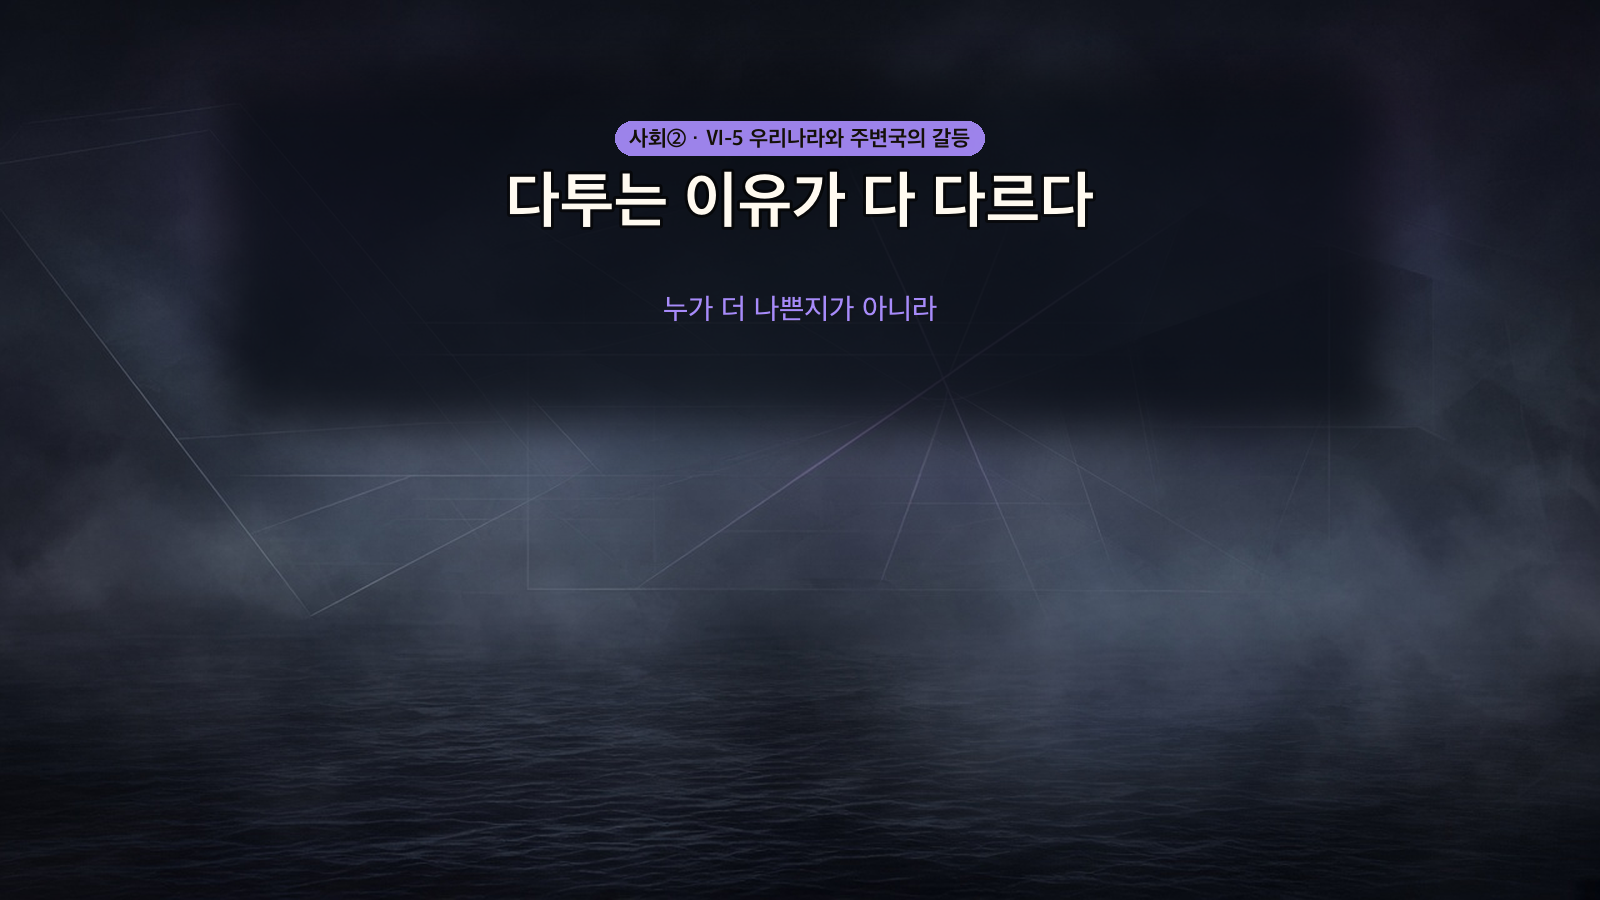
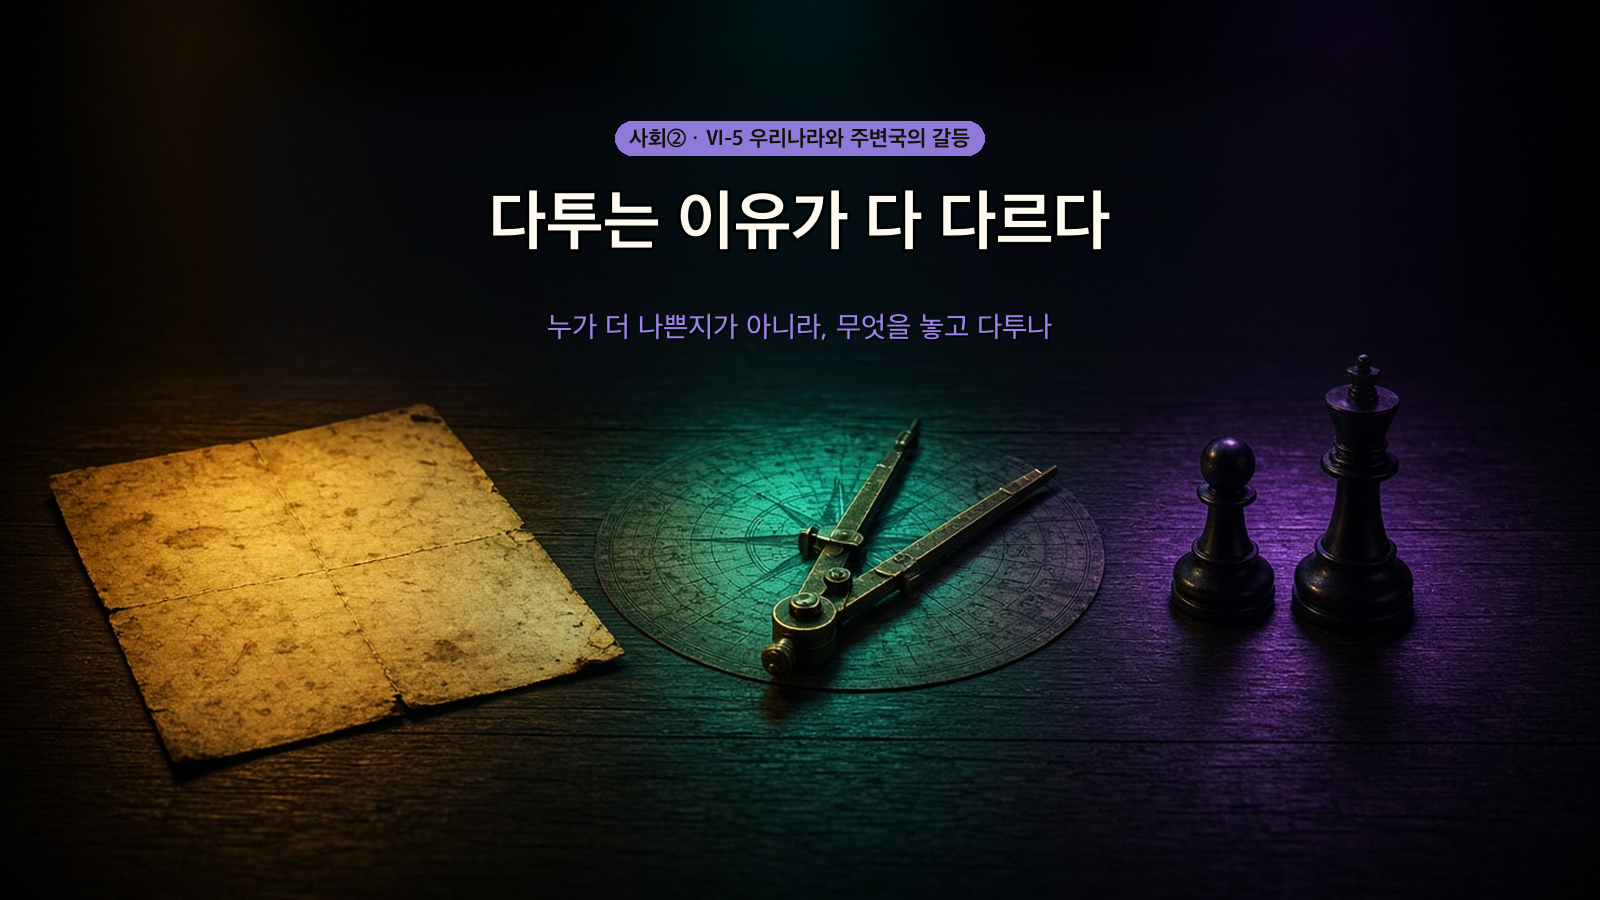
6-5 활동 카드를 그림 카드로 · 표지 둘 재제작 · 금테 noimg 렌더 픽스
천대현 "6-5, 6-6차시가 이전 차시들에 비해 뭔가 누락된 게 안보이니?"
→ 전수 대조: 섹션은 완전 균일, 갈린 곳은 한 줄이었다.
   활동 카드(그림) 6-1~6-4 = 1~2 / 6-5·6-6 = 0. md에 이미지 칸이
   파이프만 남고 비어 있었다 — 9/14 지시가 6-5·6-6에 안 따라왔다.

■ 6-5 — :::인물선택카드로 올렸다 (넷 중 셋)
군함도·광개토대왕릉비는 본문 사진 재사용(회수 지점), 집단 자위권은
자위대 관열식. 🔴 「중국 어선」은 비웠다 — 자유 라이선스 자료가
2018년 동해 공해 미국 해안경비대 나포 건뿐이라 «다른 사건»이다.
자료가 없다고 카드 내용을 바꾸지 않았다(5단계 회수 지점이다).

■ 6-6 — 올리려다 접었다. 넷 중 하나만 자료가 있다(반크는 이란
이스파한의 «반크 대성당»만 나온다). 한 장만 좋은 묶음은 안 넣는다.

■ 🔴 금테 카드에 사진 없는 카드를 섞으니 빈 금색 판이 드러났다
.pk-gold .pk-noimg 의 버튼 블록을 늘려 크림이 끝까지 내려오게 했다.
버튼은 flex:0 0 auto 로 고정(세 칸이 길게 늘어나는 2차 사고 차단).
선택자를 좁혀 회귀 0 — 이 조합을 가진 발행본이 6-5 하나뿐임을 먼저 실측.

■ 표지 둘 (make-cover.sh + cover_overlay.py)
6-5 = 세 물건이 놓인 테이블(옛 문서·해도와 컴퍼스·체스) — 옛 표지는
피사체가 없고 부제가 끊겨 있었다. 세 물건이 오늘의 세 갈래다.
6-6 = 끊어진 다리에 판자를 들고 오는 사람들. 6-1과 같은 청록 강조색으로
단원의 처음과 끝을 한 쌍으로 맞췄다.
🔴 6-5는 소녀상·군함도가 실재 조형물이라 생성하지 않고 은유 구도로 갔다.

검증 — 카드 사진 naturalWidth>0 · 표지 1600x900(기존 48장 규격) ·
data-id 전건 불변(카드는 입력칸 0) · 폰 문서폭 초과 2px · 두 차시 진도 전

이 변경이 깨뜨릴 수 있는 것: CSS는 .pk-gold .pk-noimg 로만 좁혔고
표지는 파일명을 그대로 덮어써 frontmatter·허브 링크 무영향.

Claude-Session: https://claude.ai/code/session_0112jfuNjXUAgEuhZG5Yg8vB

diff --git a/worksheets/6-5차시_우리나라와주변국의갈등_개념편.html b/worksheets/6-5차시_우리나라와주변국의갈등_개념편.html
@@ -193,6 +193,16 @@ code { background: #f1f3f7; border: 1px solid #e2e6ec; border-radius: 5px;
 .pk-gold .pk-card.pk-no { box-shadow: 0 0 0 4px #c9584f, 0 10px 22px rgba(201,88,79,.4); }
 .pk-card.pk-noimg { padding-top: 14px; }
 .pk-card.pk-noimg .pk-name { font-size: 1.02em; }
+/* 🔴 2026-09-15 — 금테 카드 묶음에 «사진 없는 카드»가 섞이면 크림 패널이 자기 높이만
+   차지하고 그 아래로 금테 배경이 통째로 드러났다(6-5 활동 1에서 실측·빈 금색 판).
+   그리드가 행 높이를 맞추므로 카드 «안»이 늘어나야 한다 — 버튼 블록을 늘려 크림이 끝까지
+   내려오게 한다. 선택자를 .pk-gold .pk-noimg 로 좁혀 기존 발행본 회귀 0(실측: 이 조합을
+   가진 발행본이 6-5 하나뿐이었다). 🔑 사진을 못 구한 카드를 «없는 채로» 둘 수 있어야
+   «한 장만 좋은 묶음은 안 넣는다»의 반대편 — «셋은 있고 하나는 없다»가 성립한다. */
+.pk-gold .pk-card.pk-noimg { padding-top: 0; }
+.pk-gold .pk-card.pk-noimg .pk-name { padding-top: 14px; border-radius: 5px 5px 0 0; }
+.pk-gold .pk-card.pk-noimg .pk-btns { flex: 1 1 auto; justify-content: flex-start; }
+.pk-gold .pk-card.pk-noimg .pk-btns .pk-b { flex: 0 0 auto; }
 @media print { .pk-b { display: none; } .pk-card img { filter: none; } }
 
 /* ⚖ 움직이는 시소 — 2026-09-03. 정지 도식이 못 주는 것: 학생이 직접 밀어 보는 것. */
@@ -987,7 +997,7 @@ table:has(.ox-group) td:first-child { width: 46px; text-align: center; color: #6
 <br>
 <h2>✏ 활동 1 — 이 갈등은 어떤 갈래일까?</h2>
 <br>
-<div class="ws-pick" id="pk88"><div class="pk-head"><span>넷은 각각 어떤 갈래의 갈등일까? 다 고르면 답이 열린다.</span><b class="pk-count">0 / 4</b></div><div class="pk-grid"><div class="pk-card pk-noimg" data-i="0" data-ans="끝나지 않은 과거"><div class="pk-name">군함도 세계 문화유산</div><div class="pk-sit">일본이 조선인 징용 사실을 알리겠다고 해 놓고 알리지 않는다</div><div class="pk-btns pk-btns-col"><button type="button" class="pk-b" data-v="끝나지 않은 과거">끝나지 않은 과거</button><button type="button" class="pk-b" data-v="땅과 바다">땅과 바다</button><button type="button" class="pk-b" data-v="지금의 외교 셈법">지금의 외교 셈법</button></div><div class="pk-why" hidden>지난 일을 어떻게 기록하고 인정하느냐의 문제다</div></div><div class="pk-card pk-noimg" data-i="1" data-ans="끝나지 않은 과거"><div class="pk-name">동북공정</div><div class="pk-sit">중국이 고구려와 발해를 중국 고대 지방 정권의 역사라고 주장한다</div><div class="pk-btns pk-btns-col"><button type="button" class="pk-b" data-v="끝나지 않은 과거">끝나지 않은 과거</button><button type="button" class="pk-b" data-v="땅과 바다">땅과 바다</button><button type="button" class="pk-b" data-v="지금의 외교 셈법">지금의 외교 셈법</button></div><div class="pk-why" hidden>땅 이야기처럼 보이지만, 다투는 것은 지난 역사를 어떻게 볼 것이냐다</div></div><div class="pk-card pk-noimg" data-i="2" data-ans="땅과 바다"><div class="pk-name">중국 어선의 불법 조업</div><div class="pk-sit">허가 없이 우리 영해에 들어와 멸치·꽃게를 잡아 간다</div><div class="pk-btns pk-btns-col"><button type="button" class="pk-b" data-v="끝나지 않은 과거">끝나지 않은 과거</button><button type="button" class="pk-b" data-v="땅과 바다">땅과 바다</button><button type="button" class="pk-b" data-v="지금의 외교 셈법">지금의 외교 셈법</button></div><div class="pk-why" hidden>지금 그 바다가 누구 것이냐의 문제다</div></div><div class="pk-card pk-noimg" data-i="3" data-ans="지금의 외교 셈법"><div class="pk-name">일본의 집단 자위권 행사</div><div class="pk-sit">직접 공격받지 않아도 가까운 나라를 돕는다는 이유로 공격할 수 있게 법을 바꿨다</div><div class="pk-btns pk-btns-col"><button type="button" class="pk-b" data-v="끝나지 않은 과거">끝나지 않은 과거</button><button type="button" class="pk-b" data-v="땅과 바다">땅과 바다</button><button type="button" class="pk-b" data-v="지금의 외교 셈법">지금의 외교 셈법</button></div><div class="pk-why" hidden>과거도 영토도 아니라, 앞으로의 힘의 배치가 걸린 문제다</div></div></div><div class="pk-result" hidden></div></div><script>(function(){var w=document.getElementById("pk88");var cs=[].slice.call(w.querySelectorAll(".pk-card")),N=cs.length;var OPTS=["끝나지 않은 과거", "땅과 바다", "지금의 외교 셈법"],MOOD=false;function done(){return cs.filter(function(c){return c.dataset.pick}).length}function reveal(){var ok=0;cs.forEach(function(c){var right=c.dataset.pick===c.dataset.ans;if(right)ok++;c.classList.add(right?"pk-ok":"pk-no");if(!right&&MOOD){c.classList.remove("pk-happy","pk-sad");c.classList.add(c.dataset.ans==="웃음"?"pk-happy":"pk-sad");}if(!right)c.querySelector(".pk-why").hidden=false;});var r=w.querySelector(".pk-result");r.hidden=false;r.innerHTML="<b>"+ok+" / "+N+"</b> 맞혔어. 틀린 카드에만 이유가 펼쳐졌어 — 거기부터 보자.<div class='pk-sum'>"+OPTS.map(function(o,oi){var head=MOOD?(o==="웃음"?"웃는 사람":"우는 사람"):o;var cls=MOOD?(o==="웃음"?"pk-up":"pk-down"):("pk-c"+oi);return "<div class='pk-col "+cls+"'><b>"+head+"</b>"+cs.filter(function(c){return c.dataset.ans===o}).map(function(c){return "<span>"+c.querySelector(".pk-name").textContent+"</span>"}).join("")+"</div>"}).join("")+"</div>";r.scrollIntoView({block:"nearest",behavior:"smooth"});}cs.forEach(function(c){c.querySelectorAll(".pk-b").forEach(function(b){b.addEventListener("click",function(){if(w.classList.contains("pk-done"))return;c.dataset.pick=b.dataset.v;c.classList.add("pk-set");if(MOOD){c.classList.remove("pk-happy","pk-sad");c.classList.add(b.dataset.v==="웃음"?"pk-happy":"pk-sad");}c.querySelectorAll(".pk-b").forEach(function(x){x.classList.toggle("on",x===b)});w.querySelector(".pk-count").textContent=done()+" / "+N;if(done()===N){w.classList.add("pk-done");reveal();}});});});})();</script>
+<div class="ws-pick" id="pk88"><div class="pk-head"><span>넷은 각각 어떤 갈래의 갈등일까? 다 고르면 답이 열린다.</span><b class="pk-count">0 / 4</b></div><div class="pk-grid pk-gold"><div class="pk-card" data-i="0" data-ans="끝나지 않은 과거"><span class="pk-win"><img src="images/6-5_step2_군함도.jpg" alt="군함도 세계 문화유산" loading="lazy"></span><div class="pk-name">군함도 세계 문화유산</div><div class="pk-sit">일본이 조선인 징용 사실을 알리겠다고 해 놓고 알리지 않는다</div><div class="pk-btns pk-btns-col"><button type="button" class="pk-b" data-v="끝나지 않은 과거">끝나지 않은 과거</button><button type="button" class="pk-b" data-v="땅과 바다">땅과 바다</button><button type="button" class="pk-b" data-v="지금의 외교 셈법">지금의 외교 셈법</button></div><div class="pk-why" hidden>지난 일을 어떻게 기록하고 인정하느냐의 문제다</div></div><div class="pk-card" data-i="1" data-ans="끝나지 않은 과거"><span class="pk-win"><img src="images/6-5_step3_광개토대왕릉비.jpg" alt="동북공정" loading="lazy"></span><div class="pk-name">동북공정</div><div class="pk-sit">중국이 고구려와 발해를 중국 고대 지방 정권의 역사라고 주장한다</div><div class="pk-btns pk-btns-col"><button type="button" class="pk-b" data-v="끝나지 않은 과거">끝나지 않은 과거</button><button type="button" class="pk-b" data-v="땅과 바다">땅과 바다</button><button type="button" class="pk-b" data-v="지금의 외교 셈법">지금의 외교 셈법</button></div><div class="pk-why" hidden>땅 이야기처럼 보이지만, 다투는 것은 지난 역사를 어떻게 볼 것이냐다</div></div><div class="pk-card pk-noimg" data-i="2" data-ans="땅과 바다"><div class="pk-name">중국 어선의 불법 조업</div><div class="pk-sit">허가 없이 우리 영해에 들어와 멸치·꽃게를 잡아 간다</div><div class="pk-btns pk-btns-col"><button type="button" class="pk-b" data-v="끝나지 않은 과거">끝나지 않은 과거</button><button type="button" class="pk-b" data-v="땅과 바다">땅과 바다</button><button type="button" class="pk-b" data-v="지금의 외교 셈법">지금의 외교 셈법</button></div><div class="pk-why" hidden>지금 그 바다가 누구 것이냐의 문제다</div></div><div class="pk-card" data-i="3" data-ans="지금의 외교 셈법"><span class="pk-win"><img src="images/6-5_b1_자위대.jpg" alt="일본의 집단 자위권 행사" loading="lazy"></span><div class="pk-name">일본의 집단 자위권 행사</div><div class="pk-sit">직접 공격받지 않아도 가까운 나라를 돕는다는 이유로 공격할 수 있게 법을 바꿨다</div><div class="pk-btns pk-btns-col"><button type="button" class="pk-b" data-v="끝나지 않은 과거">끝나지 않은 과거</button><button type="button" class="pk-b" data-v="땅과 바다">땅과 바다</button><button type="button" class="pk-b" data-v="지금의 외교 셈법">지금의 외교 셈법</button></div><div class="pk-why" hidden>과거도 영토도 아니라, 앞으로의 힘의 배치가 걸린 문제다</div></div></div><div class="pk-result" hidden></div></div><script>(function(){var w=document.getElementById("pk88");var cs=[].slice.call(w.querySelectorAll(".pk-card")),N=cs.length;var OPTS=["끝나지 않은 과거", "땅과 바다", "지금의 외교 셈법"],MOOD=false;function done(){return cs.filter(function(c){return c.dataset.pick}).length}function reveal(){var ok=0;cs.forEach(function(c){var right=c.dataset.pick===c.dataset.ans;if(right)ok++;c.classList.add(right?"pk-ok":"pk-no");if(!right&&MOOD){c.classList.remove("pk-happy","pk-sad");c.classList.add(c.dataset.ans==="웃음"?"pk-happy":"pk-sad");}if(!right)c.querySelector(".pk-why").hidden=false;});var r=w.querySelector(".pk-result");r.hidden=false;r.innerHTML="<b>"+ok+" / "+N+"</b> 맞혔어. 틀린 카드에만 이유가 펼쳐졌어 — 거기부터 보자.<div class='pk-sum'>"+OPTS.map(function(o,oi){var head=MOOD?(o==="웃음"?"웃는 사람":"우는 사람"):o;var cls=MOOD?(o==="웃음"?"pk-up":"pk-down"):("pk-c"+oi);return "<div class='pk-col "+cls+"'><b>"+head+"</b>"+cs.filter(function(c){return c.dataset.ans===o}).map(function(c){return "<span>"+c.querySelector(".pk-name").textContent+"</span>"}).join("")+"</div>"}).join("")+"</div>";r.scrollIntoView({block:"nearest",behavior:"smooth"});}cs.forEach(function(c){c.querySelectorAll(".pk-b").forEach(function(b){b.addEventListener("click",function(){if(w.classList.contains("pk-done"))return;c.dataset.pick=b.dataset.v;c.classList.add("pk-set");if(MOOD){c.classList.remove("pk-happy","pk-sad");c.classList.add(b.dataset.v==="웃음"?"pk-happy":"pk-sad");}c.querySelectorAll(".pk-b").forEach(function(x){x.classList.toggle("on",x===b)});w.querySelector(".pk-count").textContent=done()+" / "+N;if(done()===N){w.classList.add("pk-done");reveal();}});});});})();</script>
 <br>
 <blockquote>✅ <strong>스스로 점검</strong> — <strong>나라 이름을 보고 골랐다면 다시 보자.</strong> 일본도 중국도 <strong>여러 갈래에 걸쳐 있다.</strong> 이 활동은 <em>어느 나라가 더 나쁜지</em>를 고르는 것이 아니라 <em>무엇을 놓고 다투는지</em>를 고르는 것이다.</blockquote>
 <br>

diff --git a/worksheets/6-6차시_갈등해결을위한노력_개념편.html b/worksheets/6-6차시_갈등해결을위한노력_개념편.html
@@ -193,6 +193,16 @@ code { background: #f1f3f7; border: 1px solid #e2e6ec; border-radius: 5px;
 .pk-gold .pk-card.pk-no { box-shadow: 0 0 0 4px #c9584f, 0 10px 22px rgba(201,88,79,.4); }
 .pk-card.pk-noimg { padding-top: 14px; }
 .pk-card.pk-noimg .pk-name { font-size: 1.02em; }
+/* 🔴 2026-09-15 — 금테 카드 묶음에 «사진 없는 카드»가 섞이면 크림 패널이 자기 높이만
+   차지하고 그 아래로 금테 배경이 통째로 드러났다(6-5 활동 1에서 실측·빈 금색 판).
+   그리드가 행 높이를 맞추므로 카드 «안»이 늘어나야 한다 — 버튼 블록을 늘려 크림이 끝까지
+   내려오게 한다. 선택자를 .pk-gold .pk-noimg 로 좁혀 기존 발행본 회귀 0(실측: 이 조합을
+   가진 발행본이 6-5 하나뿐이었다). 🔑 사진을 못 구한 카드를 «없는 채로» 둘 수 있어야
+   «한 장만 좋은 묶음은 안 넣는다»의 반대편 — «셋은 있고 하나는 없다»가 성립한다. */
+.pk-gold .pk-card.pk-noimg { padding-top: 0; }
+.pk-gold .pk-card.pk-noimg .pk-name { padding-top: 14px; border-radius: 5px 5px 0 0; }
+.pk-gold .pk-card.pk-noimg .pk-btns { flex: 1 1 auto; justify-content: flex-start; }
+.pk-gold .pk-card.pk-noimg .pk-btns .pk-b { flex: 0 0 auto; }
 @media print { .pk-b { display: none; } .pk-card img { filter: none; } }
 
 /* ⚖ 움직이는 시소 — 2026-09-03. 정지 도식이 못 주는 것: 학생이 직접 밀어 보는 것. */

diff --git a/worksheet-gen.py b/worksheet-gen.py
@@ -1834,6 +1834,16 @@ code {{ background: #f1f3f7; border: 1px solid #e2e6ec; border-radius: 5px;
 .pk-gold .pk-card.pk-no {{ box-shadow: 0 0 0 4px #c9584f, 0 10px 22px rgba(201,88,79,.4); }}
 .pk-card.pk-noimg {{ padding-top: 14px; }}
 .pk-card.pk-noimg .pk-name {{ font-size: 1.02em; }}
+/* 🔴 2026-09-15 — 금테 카드 묶음에 «사진 없는 카드»가 섞이면 크림 패널이 자기 높이만
+   차지하고 그 아래로 금테 배경이 통째로 드러났다(6-5 활동 1에서 실측·빈 금색 판).
+   그리드가 행 높이를 맞추므로 카드 «안»이 늘어나야 한다 — 버튼 블록을 늘려 크림이 끝까지
+   내려오게 한다. 선택자를 .pk-gold .pk-noimg 로 좁혀 기존 발행본 회귀 0(실측: 이 조합을
+   가진 발행본이 6-5 하나뿐이었다). 🔑 사진을 못 구한 카드를 «없는 채로» 둘 수 있어야
+   «한 장만 좋은 묶음은 안 넣는다»의 반대편 — «셋은 있고 하나는 없다»가 성립한다. */
+.pk-gold .pk-card.pk-noimg {{ padding-top: 0; }}
+.pk-gold .pk-card.pk-noimg .pk-name {{ padding-top: 14px; border-radius: 5px 5px 0 0; }}
+.pk-gold .pk-card.pk-noimg .pk-btns {{ flex: 1 1 auto; justify-content: flex-start; }}
+.pk-gold .pk-card.pk-noimg .pk-btns .pk-b {{ flex: 0 0 auto; }}
 @media print {{ .pk-b {{ display: none; }} .pk-card img {{ filter: none; }} }}
 
 /* ⚖ 움직이는 시소 — 2026-09-03. 정지 도식이 못 주는 것: 학생이 직접 밀어 보는 것. */
